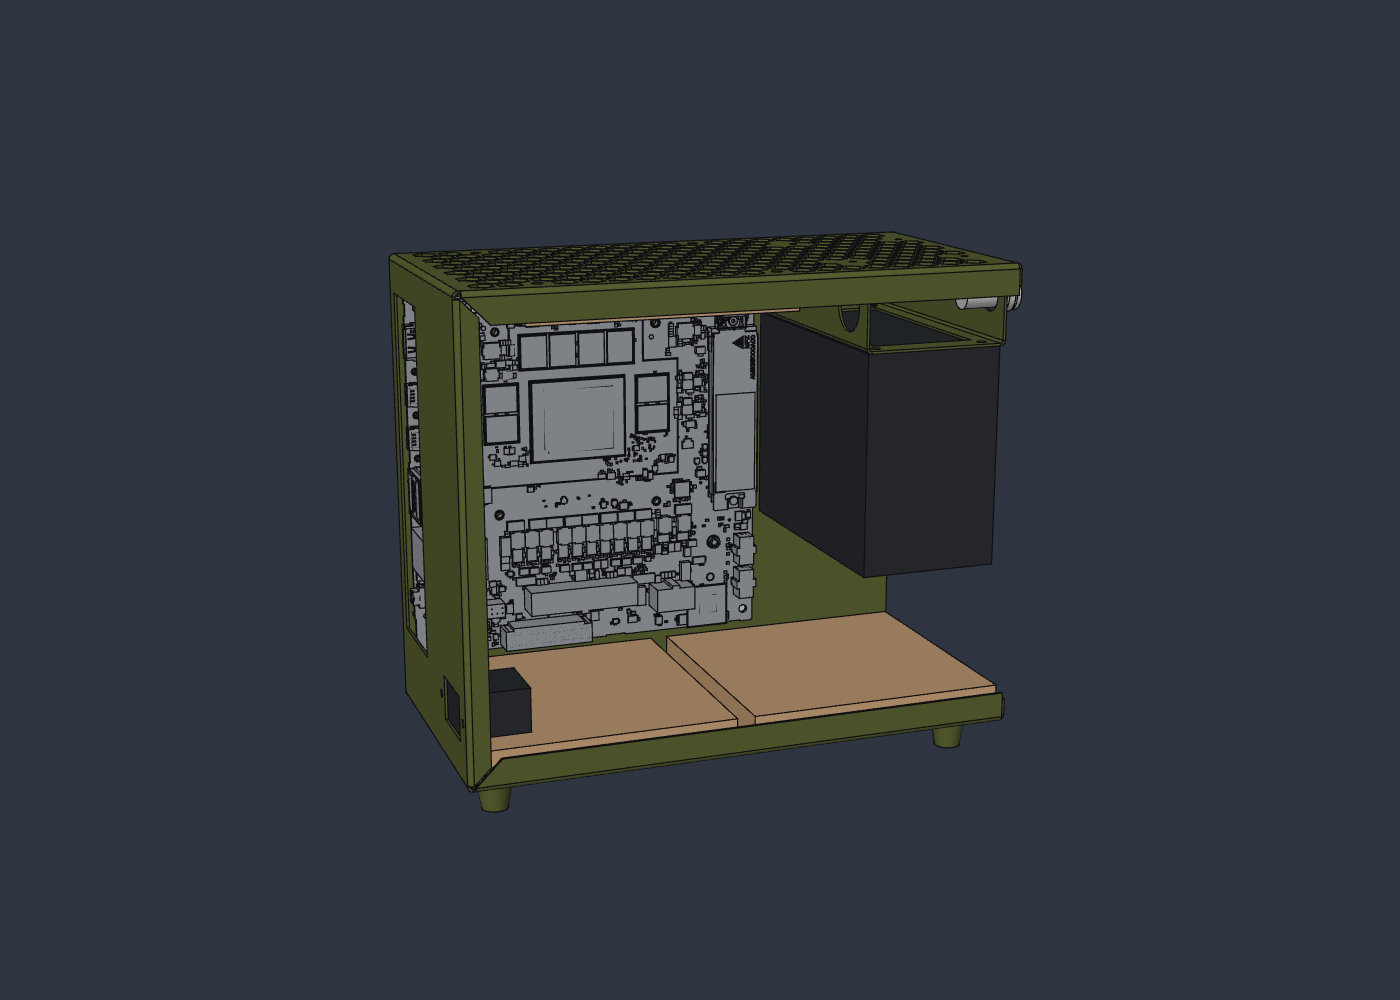
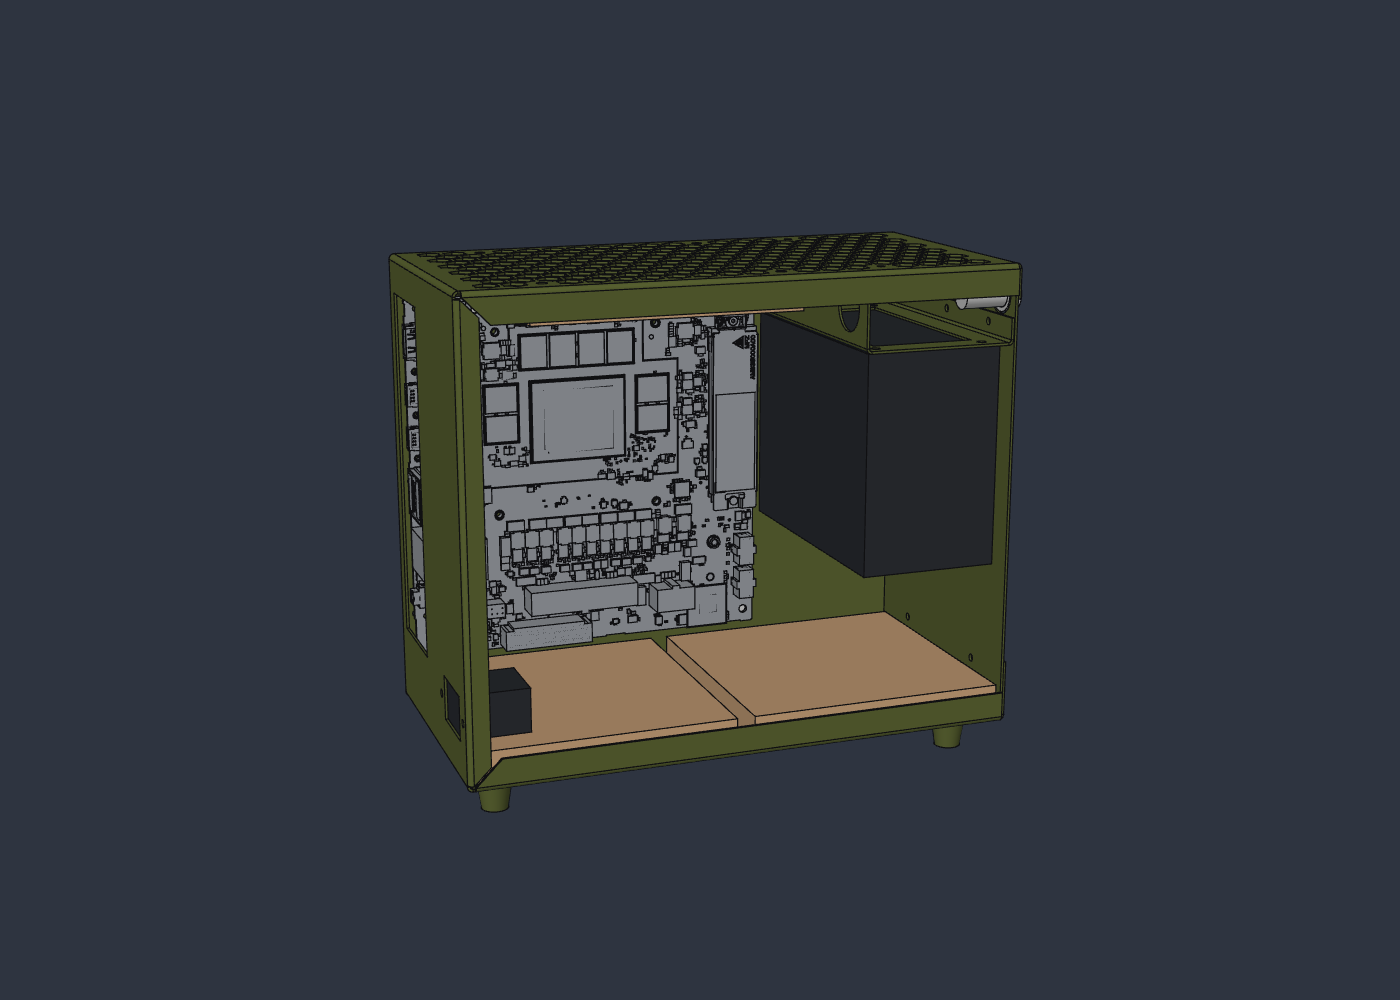
feat: bring the airflow set-up over to the sfx layout
The power supply is now an open box with a fan in its face and a loss for its insides, both assumed. FieldCraft accepts the set-up; no case has been solved. Retake the renders with Framework's board in the case.

Changed region(s): [[0.6143, 0.279, 0.7371, 0.682], [0.3071, 0.217, 0.7064, 0.279]]

diff --git a/sim/airflow.py b/sim/airflow.py
@@ -2,8 +2,9 @@
 
 Two steps, each talking to a running desktop app over its MCP bridge:
 
-  python3 sim/airflow.py geometry SPACING            SolidCraft: build the airflow geometry
+  python3 sim/airflow.py geometry SPACING             SolidCraft: build the airflow geometry
   python3 sim/airflow.py run SPACING CASE [END_TIME]  FieldCraft: solve one case
+  python3 sim/airflow.py run SPACING CASE --estimate  the same set-up, memory estimate only
 
 SPACING is the grid in mm (1 for results, 2 only to check a set-up is stable).
 CASE is one of CASES below. SOLIDCRAFT_MCP and FIELDCRAFT_MCP hold the command
@@ -15,13 +16,17 @@ zone carrying its pressure-flow curve, and the solver finds where the curves
 meet the case's resistance. Open inlets and outlets would not stay stable in
 the nova-reactor study, which this set-up follows.
 
-Simplified against mechanical/mk1.py: sheet is two cells thick so the grid
-cannot leak through it, the hex mesh is a pressure loss over each panel's
-meshed area, the PSU is a solid block (its own fan and exhaust are not
-modelled), and the heatsink is a base with coarse horizontal fins.
+Simplified against mechanical/mk1.py:
+- sheet is two cells thick so the grid cannot leak through it, with the tray
+  merged into the side wall behind it and the bulkhead into the front;
+- the hex mesh is a pressure loss over each panel's meshed area;
+- the PSU is an empty box with its fan in the face toward the board, a loss
+  standing in for its insides, and the shelf's opening above it. Its fan and
+  that loss are assumptions, not data for any real unit;
+- the heatsink is a base with coarse horizontal fins;
+- no cables.
 """
 import json
-import math
 import os
 import sys
 
@@ -35,74 +40,40 @@ PA = 1e-6
 M3H = 1e9 / 3600     # mm3/s
 AIR_DENSITY, AIR_VISCOSITY = 1.16e-12, 1.85e-11
 
-# Shut-off pressure (mm H2O) and free flow (m3/h) at full speed, from Noctua's
-# specifications. Noctua publishes no curve between the two, so a straight line is assumed.
-NF_A14 = (2.08, 140.2)       # 1500 rpm
-NF_A12X15 = (1.53, 94.2)     # 1850 rpm
+# Shut-off pressure (mm H2O) and free flow (m3/h) at full speed. Noctua publishes no curve between
+# the two for the NF-A12x15 (1850 rpm), so a straight line is assumed.
+NF_A12X15 = (1.53, 94.2)
+PSU_FAN = (2.0, 60.0)        # assumed: a 92 mm fan of the kind SFX units carry
+PSU_FAN_SIZE = 88.0          # opening in the PSU's face
+PSU_LOSS = 8.0               # assumed loss coefficient for the PSU's insides
 
-# Thin perforated plate at 70 % open (10.4 mm hexagons on a 12.45 x 10.375 pitch), Idelchik.
+# Thin perforated plate at about 70 % open, Idelchik.
 MESH_LOSS = 1.2
 
-# Fan speeds as a fraction of full: bottom, top, CPU. None leaves the fan out (its frame stays).
+# Fan speeds as a fraction of full: bottom pair, top, CPU, PSU. None leaves the fan out (its frame stays).
 CASES = {
-    "all-100": (1.0, 1.0, 1.0),
-    "all-50": (0.5, 0.5, 0.5),
-    "cpu-only-100": (None, None, 1.0),
-    "bottom-only-100": (1.0, None, 1.0),
+    "all-100": (1.0, 1.0, 1.0, 1.0),
+    "all-50": (0.5, 0.5, 0.5, 0.5),
+    "no-case-fans": (None, None, 1.0, 1.0),
+    "bottom-only": (1.0, None, 1.0, 1.0),
 }
 
 X0, X1 = -M.T, M.SHELL_XF
 Y0, Y1 = M.SHELL_Y0, M.SHELL_Y1
 Z0, Z1 = M.SHELL_Z0, M.SHELL_Z1
 FLOOR = -20.0
-BOX_MIN, BOX_MAX = [-32, -34, FLOOR], [208, 238, 300]
-MESH_X, MESH_Y = (10, M.LX - 10), (10, M.LY - 10)
-FX, FY = M.CENTRE
+BOX_MIN, BOX_MAX = [-32, -34, FLOOR], [288, 166, 272]
+MESH_X, MESH_Y = (6, M.LX - 6), (6, M.LY - 6)
 HX, HZ = M.BOARD_X + 18.54, M.BOARD_Z + M.BOARD - 136.06
+HY = M.BOARD_Y - M.HEATSINK
 CX, CZ = HX + 63.1, HZ + 63.1
+PSU_Z = M.PSU_TOP - M.PSU[2]
+PSU_C = (M.PSU_Y + M.PSU[1] / 2, PSU_Z + M.PSU[2] / 2)   # centre of its fan, Y and Z
+PSU_FAN_T = 15.0
 
 
 def geometry_path(spacing):
     return os.path.join(OUT, "airflow-mk1-%gmm.solidcraft" % spacing)
-
-
-def solids(w):
-    """(name, x0, x1, y0, y1, z0, z1) for every obstacle, with sheet w thick."""
-    b = []
-    b.append(("A_side_cpu", X0, X1, Y0, Y0 + w, Z0, Z1))
-    b.append(("A_side_psu", X0, X1, Y1 - w, Y1, Z0, Z1))
-    b.append(("A_front", X1 - w, X1, Y0, Y1, Z0, Z1))
-    b.append(("A_rear", X0, X0 + w, Y0, Y1, Z0, Z1))
-    for n, za, zb in (("bottom", Z0, Z0 + w), ("top", Z1 - w, Z1)):
-        b.append(("A_%s_a" % n, X0, X1, Y0, MESH_Y[0], za, zb))
-        b.append(("A_%s_b" % n, X0, X1, MESH_Y[1], Y1, za, zb))
-        b.append(("A_%s_c" % n, X0, MESH_X[0], MESH_Y[0], MESH_Y[1], za, zb))
-        b.append(("A_%s_d" % n, MESH_X[1], X1, MESH_Y[0], MESH_Y[1], za, zb))
-    for n, za, zb in (("fanb", Z0 + w, M.FAN_T), ("fant", M.LZ - M.FAN_T, Z1 - w)):
-        b += frame("A_%s" % n, "z", FX, FY, 70, w, za, zb)
-    b += frame("A_fanc", "y", CX, CZ, 60, w, M.PLENUM, M.PLENUM + M.CPU_FAN)
-    # tray with its cable opening, shelf, PSU
-    ty = M.PSU_Y - w
-    b.append(("A_tray_a", 0, 142, ty, M.PSU_Y, M.BASE, M.TRAY_TOP))
-    b.append(("A_tray_b", 160, M.LX, ty, M.PSU_Y, M.BASE, M.TRAY_TOP))
-    b.append(("A_tray_c", 142, 160, ty, M.PSU_Y, M.BASE, 60))
-    b.append(("A_tray_d", 142, 160, ty, M.PSU_Y, 130, M.TRAY_TOP))
-    b.append(("A_shelf", 0, M.LX, M.PSU_Y, M.PSU_Y + M.PSU[1], M.SHELF_Z - w, M.SHELF_Z))
-    b.append(("A_psu", 0, M.PSU[0], M.PSU_Y, M.PSU_Y + M.PSU[1], M.SHELF_Z, M.SHELF_Z + M.PSU[2]))
-    # board, ports, heatsink
-    bz = M.BOARD_Z
-    b.append(("A_board", M.BOARD_X, M.BOARD_X + M.BOARD, M.BOARD_Y, M.BOARD_Y + w, bz, bz + M.BOARD))
-    b.append(("A_ports", 0, 20, M.BOARD_Y - 31.1, M.BOARD_Y, bz + 8, bz + 152))
-    hy = M.BOARD_Y - M.HEATSINK
-    b.append(("A_hs_base", HX, HX + 126.2, M.BOARD_Y - 6, M.BOARD_Y, HZ, HZ + 126.2))
-    z, i = HZ, 0
-    while z + w <= HZ + 126.2:
-        b.append(("A_hs_fin%02d" % i, HX, HX + 126.2, hy, M.BOARD_Y - 6, z, z + w))
-        z += 3 * w
-        i += 1
-    for i, (x, y) in enumerate(M.FEET):
-        b.append(("A_foot%d" % i, x - 9, x + 9, y - 9, y + 9, FLOOR, Z0))
-    return b
 
 
 def frame(name, axis, c1, c2, half, w, a, b):
@@ -112,11 +83,61 @@ def frame(name, axis, c1, c2, half, w, a, b):
                                           (c1 - half, c1 + half, c2 + half - w, c2 + half),
                                           (c1 - half, c1 - half + w, c2 - half + w, c2 + half - w),
                                           (c1 + half - w, c1 + half, c2 - half + w, c2 + half - w))):
+        n = "%s_%d" % (name, k)
         if axis == "z":
-            out.append(("%s_%d" % (name, k), p0, p1, q0, q1, a, b))
+            out.append((n, p0, p1, q0, q1, a, b))
+        elif axis == "y":
+            out.append((n, p0, p1, a, b, q0, q1))
         else:
-            out.append(("%s_%d" % (name, k), p0, p1, a, b, q0, q1))
+            out.append((n, a, b, p0, p1, q0, q1))
     return out
+
+
+def ring(name, x0, x1, y0, y1, hx0, hx1, hy0, hy1, za, zb):
+    """A horizontal plate with a rectangular hole in it."""
+    return [(name + "_a", x0, x1, y0, hy0, za, zb), (name + "_b", x0, x1, hy1, y1, za, zb),
+            (name + "_c", x0, hx0, hy0, hy1, za, zb), (name + "_d", hx1, x1, hy0, hy1, za, zb)]
+
+
+def solids(w):
+    """(name, x0, x1, y0, y1, z0, z1) for every obstacle, with sheet w thick."""
+    b = [("A_side_open", X0, X1, Y0, Y0 + w, Z0, Z1),
+         ("A_side_tray", X0, X1, min(M.TRAY_Y, Y1 - w), Y1, Z0, Z1),
+         ("A_front", min(M.BULKHEAD_X[0], X1 - w), X1, Y0, Y1, Z0, Z1),
+         ("A_rear", X0, X0 + w, Y0, Y1, Z0, Z1)]
+    b += ring("A_bottom", X0, X1, Y0, Y1, MESH_X[0], MESH_X[1], MESH_Y[0], MESH_Y[1], Z0, Z0 + w)
+    b += ring("A_top", X0, X1, Y0, Y1, MESH_X[0], MESH_X[1], MESH_Y[0], MESH_Y[1], Z1 - w, Z1)
+    for i, (fx, fy) in enumerate(M.BOTTOM_FANS):
+        b += frame("A_fanb%d" % i, "z", fx, fy, 60, w, Z0 + w, M.FAN_T)
+    b += frame("A_fant", "z", M.TOP_FAN[0], M.TOP_FAN[1], 60, w, M.LZ - M.FAN_T, Z1 - w)
+    b += frame("A_fanc", "y", CX, CZ, 60, w, HY - M.CPU_FAN, HY)
+    # board, ports, mains inlet, heatsink
+    bz = M.BOARD_Z
+    b.append(("A_board", M.BOARD_X, M.BOARD_X + M.BOARD, M.BOARD_Y, M.BOARD_Y + w, bz, bz + M.BOARD))
+    b.append(("A_ports", 0, 20, M.BOARD_Y - 31.5, M.BOARD_Y, bz + 11.5, bz + 143.9))
+    b.append(("A_inlet", 0, 30, M.INLET[0] - 14, M.INLET[0] + 14, M.INLET[1] - 10, M.INLET[1] + 10))
+    b.append(("A_hs_base", HX, HX + 126.2, M.BOARD_Y - 6, M.BOARD_Y, HZ, HZ + 126.2))
+    z, i = HZ, 0
+    while z + w <= HZ + 126.2:
+        b.append(("A_hs_fin%02d" % i, HX, HX + 126.2, HY, M.BOARD_Y - 6, z, z + w))
+        z += 3 * w
+        i += 1
+    # PSU: a box open at the top, its fan in the face toward the board
+    px0, px1 = M.PSU_X, M.PSU_X + M.PSU[0]
+    py0, py1 = M.PSU_Y, M.PSU_Y + M.PSU[1]
+    b.append(("A_psu_floor", px0, px1, py0, py1, PSU_Z, PSU_Z + w))
+    b.append(("A_psu_front", px1 - w, px1, py0, py1, PSU_Z + w, M.PSU_TOP))
+    h = PSU_FAN_SIZE / 2
+    cy, cz = PSU_C
+    b += [("A_psu_face_a", px0, px0 + w, py0, py1, PSU_Z + w, cz - h), ("A_psu_face_b", px0, px0 + w, py0, py1, cz + h, M.PSU_TOP),
+          ("A_psu_face_c", px0, px0 + w, py0, cy - h, cz - h, cz + h), ("A_psu_face_d", px0, px0 + w, cy + h, py1, cz - h, cz + h)]
+    # shelf: its web with the opening over the PSU, and its rear wall, which stops short of the top panel
+    sx0, sx1 = M.SHELF_X
+    b += ring("A_shelf", sx0, sx1, Y0 + w, M.TRAY_Y, px0 + 8, px0 + 55.5, py0 + 12, py0 + 113, M.PSU_TOP, M.PSU_TOP + w)
+    b.append(("A_shelf_wall", sx0, sx0 + w, Y0 + w, M.TRAY_Y, M.PSU_TOP + w, M.LZ - 0.1 - 2 * M.T))
+    for i, (x, y) in enumerate(M.FEET):
+        b.append(("A_foot%d" % i, x - 9, x + 9, y - 9, y + 9, FLOOR, Z0))
+    return b
 
 
 def geometry(spacing):
@@ -144,6 +165,28 @@ def curve(fan, s):
     return [[0, fan[0] * 9.80665 * PA * s * s], [fan[1] * M3H * s, 0]]
 
 
+def fans(case, w):
+    sb, st, sc_, sp = CASES[case]
+    out = []
+    if sb:
+        for i, (fx, fy) in enumerate(M.BOTTOM_FANS):
+            out.append({"name": "bottom%d" % (i + 1), "min": [fx - 60 + w, fy - 60 + w, Z0 + w],
+                        "max": [fx + 60 - w, fy + 60 - w, M.FAN_T], "direction": "+z", "curve": curve(NF_A12X15, sb)})
+    if st:
+        fx, fy = M.TOP_FAN
+        out.append({"name": "top", "min": [fx - 60 + w, fy - 60 + w, M.LZ - M.FAN_T],
+                    "max": [fx + 60 - w, fy + 60 - w, Z1 - w], "direction": "+z", "curve": curve(NF_A12X15, st)})
+    if sc_:
+        out.append({"name": "cpu", "min": [CX - 60 + w, HY - M.CPU_FAN, CZ - 60 + w],
+                    "max": [CX + 60 - w, HY, CZ + 60 - w], "direction": "+y", "curve": curve(NF_A12X15, sc_)})
+    if sp:
+        h = PSU_FAN_SIZE / 2
+        cy, cz = PSU_C
+        out.append({"name": "psu", "min": [M.PSU_X, cy - h, cz - h], "max": [M.PSU_X + PSU_FAN_T, cy + h, cz + h],
+                    "direction": "+x", "curve": curve(PSU_FAN, sp)})
+    return out
+
+
 def run(spacing, case, end_time):
     w = 2 * spacing
     fc = Field()
@@ -155,25 +198,18 @@ def run(spacing, case, end_time):
     except SystemExit as e:
         if "already exists" not in str(e):
             raise
-    sb, st, sc_ = CASES[case]
-    fans = []
-    if sb:
-        fans.append({"name": "bottom", "min": [FX - 70 + w, FY - 70 + w, Z0 + w], "max": [FX + 70 - w, FY + 70 - w, M.FAN_T],
-                     "direction": "+z", "curve": curve(NF_A14, sb)})
-    if st:
-        fans.append({"name": "top", "min": [FX - 70 + w, FY - 70 + w, M.LZ - M.FAN_T], "max": [FX + 70 - w, FY + 70 - w, Z1 - w],
-                     "direction": "+z", "curve": curve(NF_A14, st)})
-    if sc_:
-        fans.append({"name": "cpu", "min": [CX - 60 + w, M.PLENUM, CZ - 60 + w], "max": [CX + 60 - w, M.PLENUM + M.CPU_FAN, CZ + 60 - w],
-                     "direction": "+y", "curve": curve(NF_A12X15, sc_)})
-    loss = {"type": "loss_coefficient", "coefficient": MESH_LOSS}
+    mesh = {"type": "loss_coefficient", "coefficient": MESH_LOSS}
+    px0 = M.PSU_X + PSU_FAN_T + spacing
     name = "%s_%gmm" % (case, spacing)
     domain = {"name": name, "material": "Air", "min": BOX_MIN, "max": BOX_MAX, "spacing": spacing,
-              "obstacles": bodies, "fans": fans,
+              "obstacles": bodies, "fans": fans(case, w),
               "porous": [{"name": "mesh_bottom", "min": [MESH_X[0], MESH_Y[0], Z0], "max": [MESH_X[1], MESH_Y[1], Z0 + w],
-                          "axis": "z", "resistance": loss},
+                          "axis": "z", "resistance": mesh},
                          {"name": "mesh_top", "min": [MESH_X[0], MESH_Y[0], Z1 - w], "max": [MESH_X[1], MESH_Y[1], Z1],
-                          "axis": "z", "resistance": loss}]}
+                          "axis": "z", "resistance": mesh},
+                         {"name": "psu_insides", "min": [px0, M.PSU_Y, PSU_Z + w + 20],
+                          "max": [M.PSU_X + M.PSU[0] - w, M.PSU_Y + M.PSU[1], M.PSU_TOP - 20],
+                          "axis": "z", "resistance": {"type": "loss_coefficient", "coefficient": PSU_LOSS}}]}
     procedure = {"type": "fluid", "domain": name, "end_time": end_time, "time_step": 1e-5 * spacing,
                  "frames": 1,       # the app keeps every solved step's frames in memory
                  "collision": "hrr", "turbulence": {"type": "smagorinsky", "constant": 0.1}}
@@ -209,25 +245,25 @@ def run(spacing, case, end_time):
 
 
 def pictures(fc, name):
-    side = {"yaw": 0, "pitch": 0, "target": [88, 100, 140], "distance": 620}
-    end = {"yaw": 90, "pitch": 0, "target": [88, 102, 140], "distance": 620}
+    side = {"yaw": 0, "pitch": 0, "target": [128, 64, 110], "distance": 620}
+    end = {"yaw": 90, "pitch": 0, "target": [128, 64, 110], "distance": 520}
     fc.execute("results.streamlines", {"step": name, "show": False})
     for field, axis, pos, camera, tag in (
-            ("velocity", "y", 10, side, "cpu-plenum"), ("velocity", "y", 60, side, "heatsink"),
-            ("velocity", "y", 194, side, "psu-plenum"), ("velocity", "x", 88, end, "middle"),
-            ("pressure", "x", 88, end, "middle")):
+            ("velocity", "y", 24, side, "open-side"), ("velocity", "y", 90, side, "heatsink"),
+            ("pressure", "y", 24, side, "open-side"),
+            ("velocity", "x", 90, end, "board"), ("velocity", "x", 212, end, "psu")):
         fc.execute("view.hide", {"items": [{"kind": "body", "name": n} for n in (
-            ("A_side_cpu", "A_side_psu") if axis == "y" else ("A_front", "A_rear"))]})
+            ("A_side_open", "A_side_tray") if axis == "y" else ("A_front", "A_rear"))]})
         fc.execute("results.slice", {"step": name, "field": field, "axis": axis, "position": pos})
-        fc.call("screenshot", {"source": "model", "width": 1100, "height": 1300, "camera": camera,
+        fc.call("screenshot", {"source": "model", "width": 1300, "height": 1100, "camera": camera,
                                "path": os.path.join(OUT, "%s_%s_%s.png" % (name, field, tag))})
 
 
 if __name__ == "__main__":
-    a = sys.argv[1:]
+    a = [x for x in sys.argv[1:] if not x.startswith("--")]
     if a[:1] == ["geometry"] and len(a) == 2:
         geometry(float(a[1]))
     elif a[:1] == ["run"] and len(a) >= 3 and a[2] in CASES:
-        run(float(a[1]), a[2], float(a[3]) if len(a) > 3 and not a[3].startswith("-") else 0.6)
+        run(float(a[1]), a[2], float(a[3]) if len(a) > 3 else 0.6)
     else:
         raise SystemExit(__doc__)

diff --git a/README.md b/README.md
@@ -93,8 +93,10 @@ three, they win.
 
 - [docs/parts.md](docs/parts.md) has the dimensions of the bought-in parts and
   where each came from, and says which are still placeholders.
-- [sim/airflow.py](sim/airflow.py) is the airflow set-up for the earlier ATX
-  layout and has not been brought over to this one yet.
+- [sim/airflow.py](sim/airflow.py) sets up the airflow study in FieldCraft.
+  FieldCraft accepts the set-up, but no case has been solved yet, so there
+  are no results. The power supply's fan and internal resistance in it are
+  assumptions.
 - [mechanical/layout-study.sc](mechanical/layout-study.sc) is the box study
   the layout was chosen from.
 
